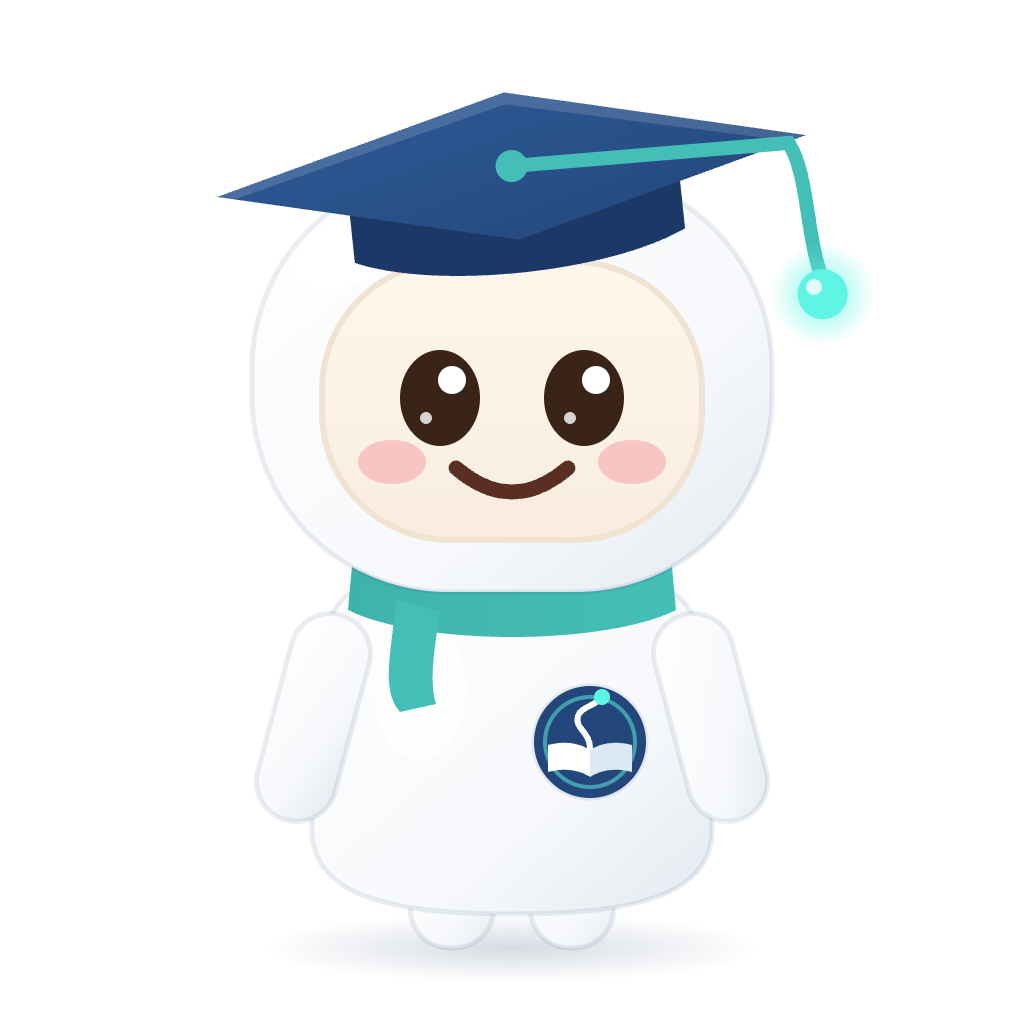
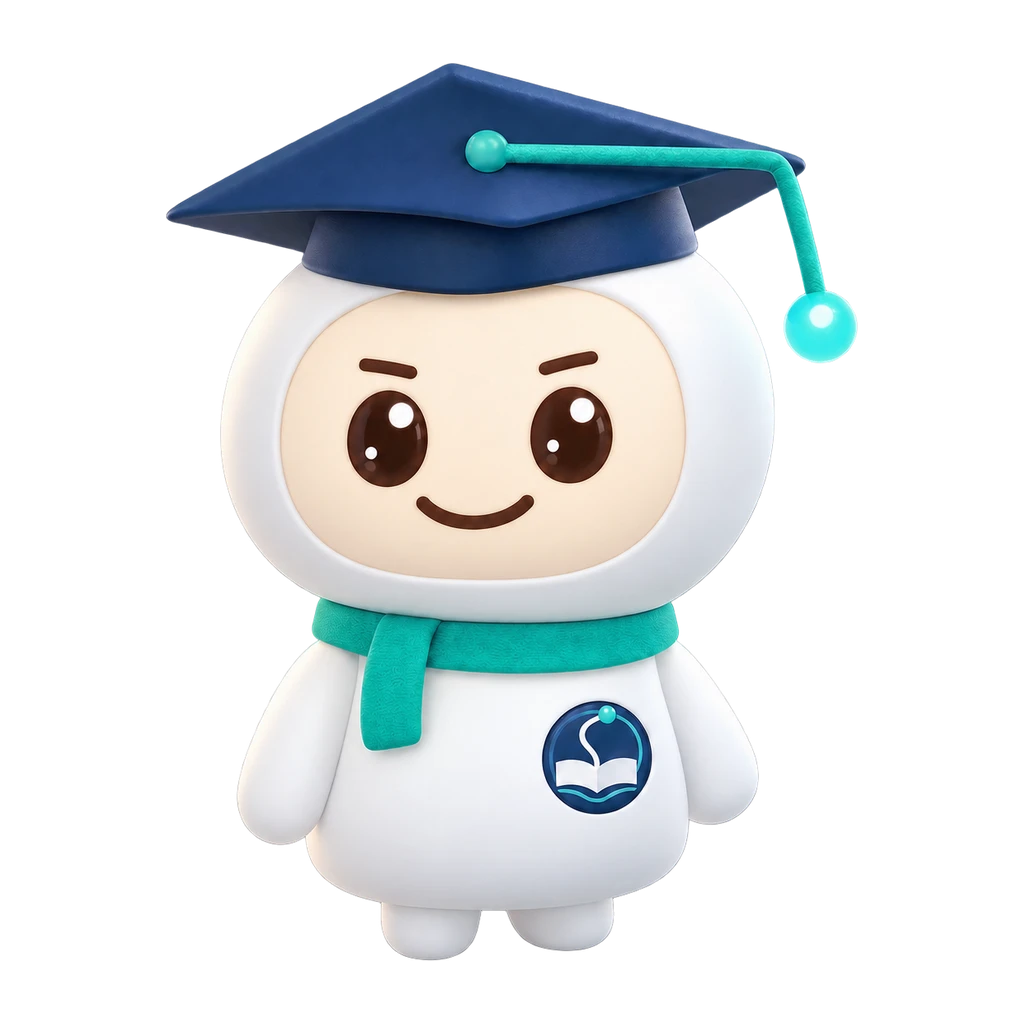
رفيق in 3D: new pose renders, his face as the mentor tab, and a «عم يحضّرلك الجواب» bubble
Replaces the 2D poses with Salah's 3D renders (sources in design/mentor/3d),
adds the idle and head poses and a MentorBadge for round avatars, and swaps
the chat's bare spinner for his face beside an animated typing bubble.

Changed region(s): [[0.1562, 0.0625, 0.8438, 0.9375]]

diff --git a/app/lib/features/mentor/mentor_typing_bubble.dart b/app/lib/features/mentor/mentor_typing_bubble.dart
@@ -1,0 +1,100 @@
+import 'package:flutter/material.dart';
+
+import '../../core/theme/app_theme.dart';
+import '../../core/widgets/widgets.dart';
+
+/// Shown while the mentor's answer is on its way: his face beside a bubble
+/// that says so, with three dots that keep moving so a slow answer (the PC
+/// model can take a few seconds) never looks frozen.
+class MentorTypingBubble extends StatefulWidget {
+  const MentorTypingBubble({super.key, required this.mentorName});
+
+  final String mentorName;
+
+  @override
+  State<MentorTypingBubble> createState() => _MentorTypingBubbleState();
+}
+
+class _MentorTypingBubbleState extends State<MentorTypingBubble>
+    with SingleTickerProviderStateMixin {
+  late final AnimationController _dots =
+      AnimationController(vsync: this, duration: const Duration(milliseconds: 1200))..repeat();
+
+  @override
+  void dispose() {
+    _dots.dispose();
+    super.dispose();
+  }
+
+  @override
+  Widget build(BuildContext context) {
+    final name = widget.mentorName.isEmpty ? 'رفيق' : widget.mentorName;
+    return Semantics(
+      liveRegion: true,
+      label: '$name عم يحضّرلك الجواب',
+      child: Align(
+        alignment: AlignmentDirectional.centerEnd,
+        child: Padding(
+          padding: const EdgeInsets.only(bottom: AppSpacing.md),
+          child: Row(
+            mainAxisSize: MainAxisSize.min,
+            crossAxisAlignment: CrossAxisAlignment.end,
+            children: [
+              const MentorBadge(size: 40),
+              const SizedBox(width: AppSpacing.sm),
+              Flexible(
+                child: Container(
+                  padding: const EdgeInsets.symmetric(horizontal: AppSpacing.lg, vertical: AppSpacing.md),
+                  decoration: BoxDecoration(
+                    color: AppColors.surface,
+                    border: Border.all(color: AppColors.border),
+                    borderRadius: BorderRadius.circular(AppRadius.lg),
+                  ),
+                  child: Row(
+                    mainAxisSize: MainAxisSize.min,
+                    children: [
+                      Flexible(
+                        child: Text('$name عم يحضّرلك الجواب',
+                            style: AppText.body.copyWith(color: AppColors.textSecondary)),
+                      ),
+                      const SizedBox(width: AppSpacing.xs),
+                      AnimatedBuilder(
+                        animation: _dots,
+                        builder: (context, _) => Row(
+                          mainAxisSize: MainAxisSize.min,
+                          children: [
+                            for (var i = 0; i < 3; i++) _dot(i),
+                          ],
+                        ),
+                      ),
+                    ],
+                  ),
+                ),
+              ),
+            ],
+          ),
+        ),
+      ),
+    );
+  }
+
+  /// Each dot rises and brightens in turn.
+  Widget _dot(int i) {
+    final phase = (_dots.value - i * .18) % 1.0;
+    final lift = phase < .4 ? Curves.easeInOut.transform(1 - (phase - .2).abs() / .2) : 0.0;
+    return Padding(
+      padding: const EdgeInsets.symmetric(horizontal: 1.5),
+      child: Transform.translate(
+        offset: Offset(0, -3 * lift),
+        child: Container(
+          width: 5,
+          height: 5,
+          decoration: BoxDecoration(
+            shape: BoxShape.circle,
+            color: Color.lerp(AppColors.textMuted, const Color(0xFF44BFB7), lift),
+          ),
+        ),
+      ),
+    );
+  }
+}

diff --git a/app/lib/core/widgets/mentor_avatar.dart b/app/lib/core/widgets/mentor_avatar.dart
@@ -2,7 +2,7 @@ import 'package:flutter/material.dart';
 
 import '../theme/app_theme.dart';
 
-enum MentorPose { wave, happy, thinking, sorry, pointing }
+enum MentorPose { wave, happy, thinking, sorry, pointing, idle, head }
 
 /// The mentor character. Loads `assets/mentor/{pose}.png` (Salah's exports);
 /// until those exist it shows a colored circle placeholder.
@@ -43,6 +43,7 @@ class _Placeholder extends StatelessWidget {
         MentorPose.thinking => Icons.psychology_outlined,
         MentorPose.sorry => Icons.sentiment_dissatisfied_outlined,
         MentorPose.pointing => Icons.lightbulb_outline,
+        MentorPose.idle || MentorPose.head => Icons.face_outlined,
       };
 
   @override
@@ -51,6 +52,37 @@ class _Placeholder extends StatelessWidget {
       decoration: const BoxDecoration(color: AppColors.mentorSoft, shape: BoxShape.circle),
       alignment: Alignment.center,
       child: Icon(_icon, size: size * 0.5, color: AppColors.mentor),
+    );
+  }
+}
+
+/// رفيق's face in a soft circle: the chat avatar and the tab icon. The head
+/// pose is drawn a little larger than the circle so the cap's tassel can
+/// spill over the edge, as on his other screens.
+class MentorBadge extends StatelessWidget {
+  const MentorBadge({super.key, this.size = 40, this.ring = false});
+
+  final double size;
+
+  /// A teal ring for the selected tab.
+  final bool ring;
+
+  @override
+  Widget build(BuildContext context) {
+    return Container(
+      width: size,
+      height: size,
+      decoration: BoxDecoration(
+        shape: BoxShape.circle,
+        color: AppColors.mentorSoft,
+        border: ring ? Border.all(color: const Color(0xFF44BFB7), width: 2) : null,
+      ),
+      child: ClipOval(
+        child: Transform.scale(
+          scale: 1.18,
+          child: MentorAvatar(pose: MentorPose.head, size: size),
+        ),
+      ),
     );
   }
 }

diff --git a/app/lib/core/app_shell.dart b/app/lib/core/app_shell.dart
@@ -3,6 +3,7 @@ import 'package:flutter_riverpod/flutter_riverpod.dart';
 import 'package:go_router/go_router.dart';
 
 import 'data/providers.dart';
+import 'widgets/mentor_avatar.dart';
 
 /// Bottom navigation with the 4 tabs: مساري · خزنة · {mentorName} · أنا.
 class AppShell extends ConsumerWidget {
@@ -27,7 +28,8 @@ class AppShell extends ConsumerWidget {
             const NavigationDestination(icon: Icon(Icons.route_outlined), label: 'مساري'),
             const NavigationDestination(icon: Icon(Icons.auto_stories_outlined), label: 'خزنة'),
             NavigationDestination(
-              icon: const Icon(Icons.chat_bubble_outline_rounded),
+              icon: const Opacity(opacity: .75, child: MentorBadge(size: 30)),
+              selectedIcon: const MentorBadge(size: 30, ring: true),
               label: mentorName,
             ),
             const NavigationDestination(icon: Icon(Icons.person_outline_rounded), label: 'أنا'),

diff --git a/app/lib/features/mentor/mentor_screen.dart b/app/lib/features/mentor/mentor_screen.dart
@@ -5,6 +5,7 @@ import '../../core/data/providers.dart';
 import '../../core/models/models.dart';
 import '../../core/theme/app_theme.dart';
 import '../../core/widgets/widgets.dart';
+import 'mentor_typing_bubble.dart';
 
 class MentorScreen extends ConsumerStatefulWidget {
   const MentorScreen({super.key, this.subjectId, this.conceptId});
@@ -139,10 +140,7 @@ class _MentorScreenState extends ConsumerState<MentorScreen> {
                         child: Text(message.text, style: AppText.body),
                       ),
                     ),
-                  if (_sending) const Align(
-                    alignment: Alignment.centerLeft,
-                    child: CircularProgressIndicator(),
-                  ),
+                  if (_sending) MentorTypingBubble(mentorName: mentorName),
                 ],
               )),
         if (subjectId != null && enabled) Padding(
